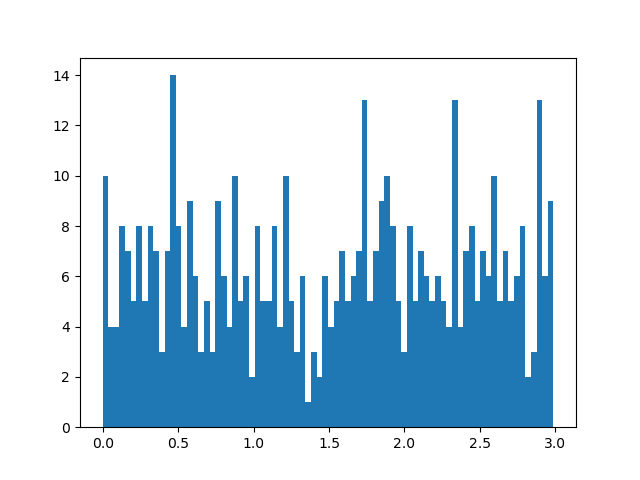
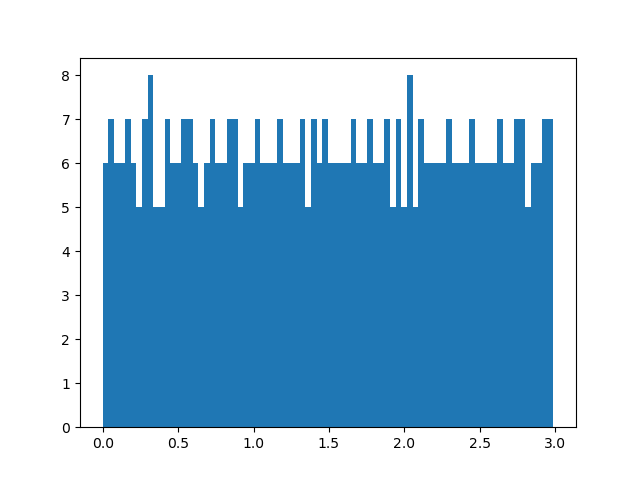
new script - set system
A script to better investigate the set system.

diff --git a/set_system.py b/set_system.py
@@ -1,0 +1,310 @@
+##location: cd Github/dynamics_random_complex_systems
+
+##to run: python set_system.py
+
+########################################################
+
+##Part A: load in the libraries and functions for running the code
+
+##libraries
+
+import random
+from random import randint
+import numpy as np
+import csv
+
+import matplotlib as mpl
+import matplotlib.pyplot as plt
+import matplotlib.animation as animation
+
+import networkx as nx
+
+import scipy as sp
+from scipy.integrate import solve_ivp
+
+###############################################################
+
+##dyadic behaviour model
+
+def Calc_x_dot(x):
+
+	x_dot=np.zeros(no_factors)
+
+	for sel_ind in np.arange(no_factors):
+
+		x_growth=x[sel_ind]*growth_rate[sel_ind]
+
+		x_logistic_growth=growth_to_max_rate[sel_ind]*max_resources[sel_ind]-x[sel_ind]
+
+		for sel_other_ind in np.arange(no_factors):
+		
+			x_logistic_growth=x_logistic_growth+interactions[sel_other_ind, sel_ind]*x[sel_other_ind]
+			
+		x_dot[sel_ind]=x_growth*x_logistic_growth
+			
+	return(x_dot)
+
+def Behaviour_Model_ODE(t, x):#, alpha, beta, gamma, delta, epsilon):
+
+	x_dot=Calc_x_dot(x)
+	
+	return(x_dot)
+    
+
+def Calc_Intervention_Effect(no_factors, no_t, max_t, prop_interactions, kick_size, kick_type):
+    
+    sel_node=0
+
+    sel_other_node=1
+
+#    print("growth_rate = ", growth_rate)
+
+ #   print("growth_to_max_rate = ", growth_to_max_rate)
+
+  #  print("max_resources = ", max_resources)
+
+   # print("interactions = ", interactions)
+
+    #single_kick_data=Single_Behaviour_Kick(kick_size, no_factors, no_t, 1)
+
+    single_kick_data=[]
+
+    x_init=np.random.random(no_factors)*0.4
+            
+    full_z=np.reshape(x_init,(no_factors,1))
+
+#    print(full_z)
+
+    full_t=[0]
+
+ #   print(full_t)
+
+    nudge_behaviour=0
+            
+    t_min=0
+
+    t_max=int(max_t/2)
+
+    t_sol=np.linspace(t_min, t_max, no_t)
+            
+    sol=solve_ivp(Behaviour_Model_ODE, [np.min(t_sol), np.max(t_sol)], x_init, dense_output=True, t_eval=t_sol)
+
+    intervention_effect=0
+    
+    if sol.success==1:
+        
+        z=sol.sol(t_sol)
+
+        full_z=np.hstack([full_z,z])
+                
+        full_t=np.hstack([full_t,t_sol])
+
+        L=len(z[0,:])
+
+        x_init=z[:,L-1]
+
+        single_kick_data=np.hstack([single_kick_data, x_init[[0, 1]]])
+
+        ##record the value before the kick_size
+
+        before_intervention_value=x_init[0]
+
+    #    print("before_intervention_value = ", before_intervention_value)
+
+        ######
+
+        ##nudge the system
+
+        if kick_type==1:
+
+            x_init[sel_node]=x_init[sel_node]+kick_size#np.random.random(2)*2
+            
+        if kick_type==2:
+
+            max_resources[sel_node]=max_resources[sel_node]+kick_size#np.random.random(2)*2
+            
+        if kick_type==3:
+
+            interactions[sel_other_node, sel_node]=interactions[sel_other_node, sel_node]+kick_size#np.random.random(2)*2
+
+        #######
+
+        ##run for another 10 seconds to see what happens
+
+        t_min=int(max_t/2)
+
+        t_max=int(max_t)
+
+        t_sol=np.linspace(t_min, t_max, no_t)
+                
+        sol=solve_ivp(Behaviour_Model_ODE, [np.min(t_sol), np.max(t_sol)], x_init, dense_output=True, t_eval=t_sol)
+
+        z=sol.sol(t_sol)
+
+        full_z=np.hstack([full_z,z])
+                
+        full_t=np.hstack([full_t,t_sol])
+
+        L=len(z[0,:])
+
+        x_init=z[:,L-1]
+
+        last_value=x_init[0]
+
+    #    print("last_value = ", last_value)
+
+        intervention_effect=last_value-before_intervention_value
+    
+    return(intervention_effect)
+    
+	
+#######################################
+	
+##variables
+
+no_runs=500
+
+no_factors=5
+
+no_t=250
+
+max_t=20
+
+prop_interactions=0.8
+
+max_kick=3
+
+no_kick_divs=max_kick/no_runs
+
+all_kick_sizes=np.arange(0, max_kick, no_kick_divs)#random.random(no_runs)*3#np.ones(no_runs)
+
+kick_type=3 ##1=value, 2=max, 3=interaction
+
+all_intervention_effects=[]
+
+for sel_run in np.arange(no_runs):
+    
+    kick_size=all_kick_sizes[sel_run]
+    
+    print("Sel run = ", sel_run, ", kick size = ", kick_size)
+
+    ########################
+    
+    ##or run this for a specific system
+    
+    growth_rate=np.ones(no_factors)*2
+
+    growth_to_max_rate=np.zeros(no_factors)
+
+    max_resources=np.zeros(no_factors)
+
+    interactions=np.zeros([no_factors, no_factors])
+    
+    growth_to_max_rate[3]=1
+    
+    growth_to_max_rate[4]=1
+    
+    max_resources[3]=1
+    
+    max_resources[4]=1
+    
+    interactions[2, 0]=2
+    
+    interactions[4, 2]=2
+   
+    interactions[3, 0]=0.5
+    
+    interactions[3, 1]=1
+    
+    interactions[1, 0]=-1
+            
+    intervention_effect=Calc_Intervention_Effect(no_factors, no_t, max_t, prop_interactions, kick_size, kick_type)
+
+    print("intervention_effect = ", intervention_effect)
+
+    all_intervention_effects=np.append(all_intervention_effects, intervention_effect)
+
+print("all_intervention_effects")
+
+print(all_intervention_effects)
+
+all_kick_sizes=all_kick_sizes[all_intervention_effects<20]
+
+all_intervention_effects=all_intervention_effects[all_intervention_effects<20]
+
+all_kick_sizes=all_kick_sizes[all_intervention_effects>-20]
+
+all_intervention_effects=all_intervention_effects[all_intervention_effects>-20]
+
+fig, ax=plt.subplots(nrows=1, ncols=1)
+
+ax.hist(all_intervention_effects, bins=80)
+
+#ax.set_xlim([-10, 10])
+
+#ax.set_ylim([0, 10])
+
+plt.show()
+
+fig.savefig("intervention_effects.png")
+
+plt.close()
+
+fig, ax=plt.subplots(nrows=1, ncols=1)
+
+ax.scatter(all_kick_sizes, all_intervention_effects)
+
+#ax.set_xlim([-10, 10])
+
+#ax.set_ylim([0, 10])
+
+plt.show()
+
+fig.savefig("intervention_size_vs_intervention_effects.png")
+
+plt.close()
+
+
+
+
+
+
+
+
+
+
+
+
+
+
+
+
+
+
+
+
+
+
+
+
+
+
+
+
+
+
+
+
+
+
+
+
+
+
+
+
+
+
+
+
+
